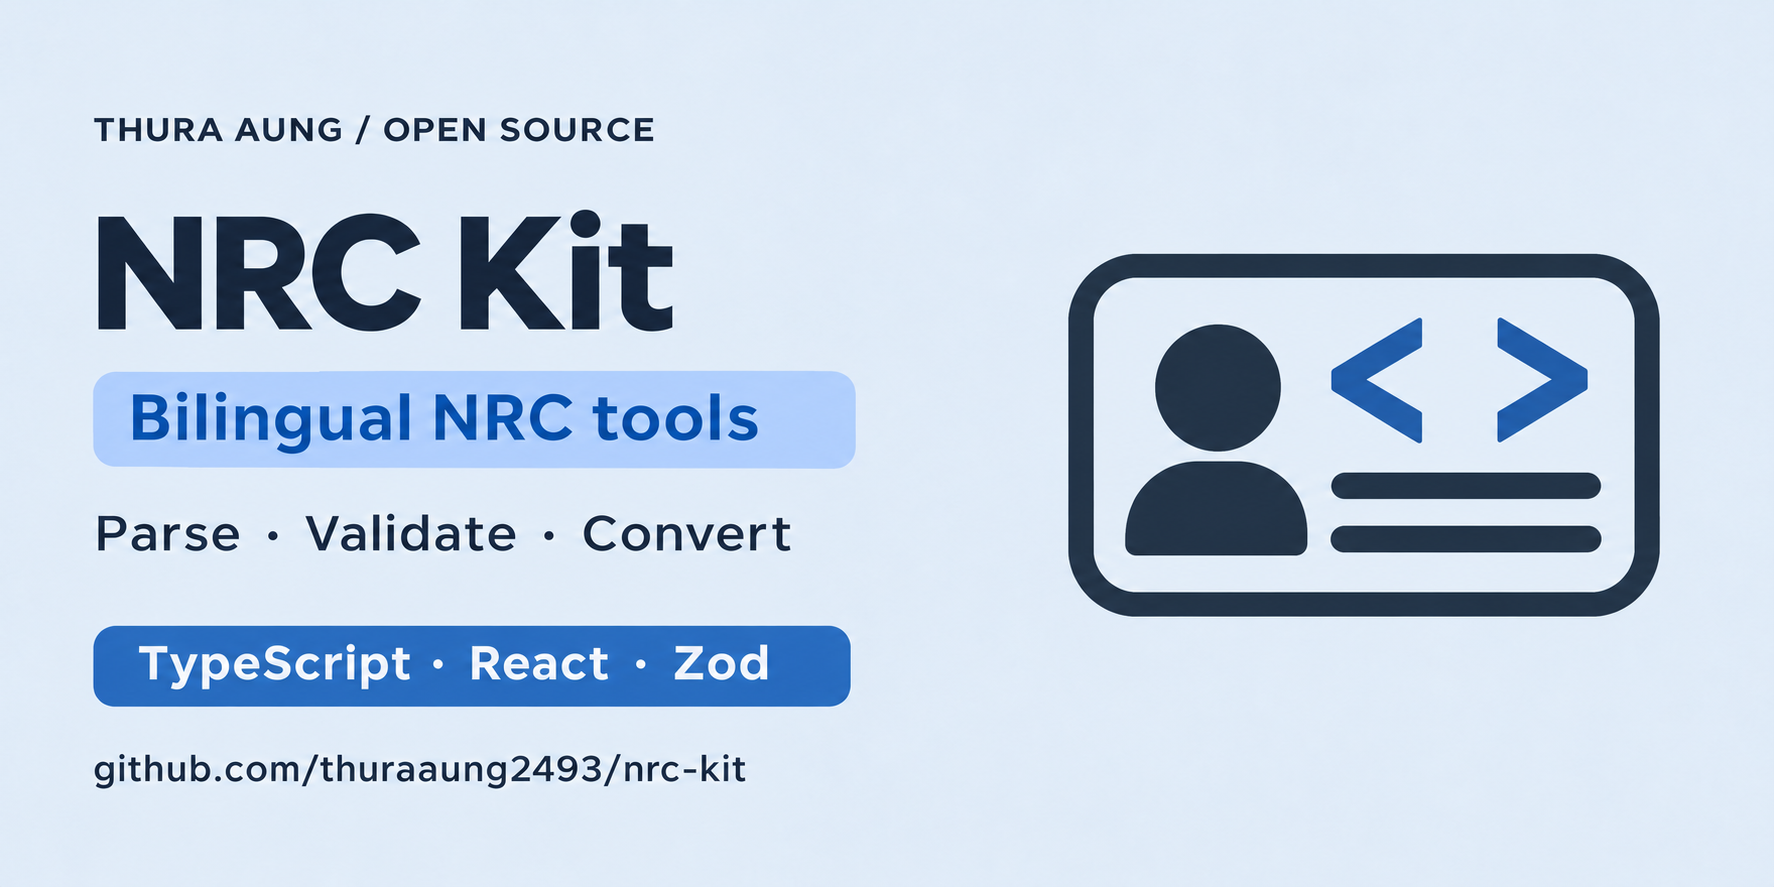
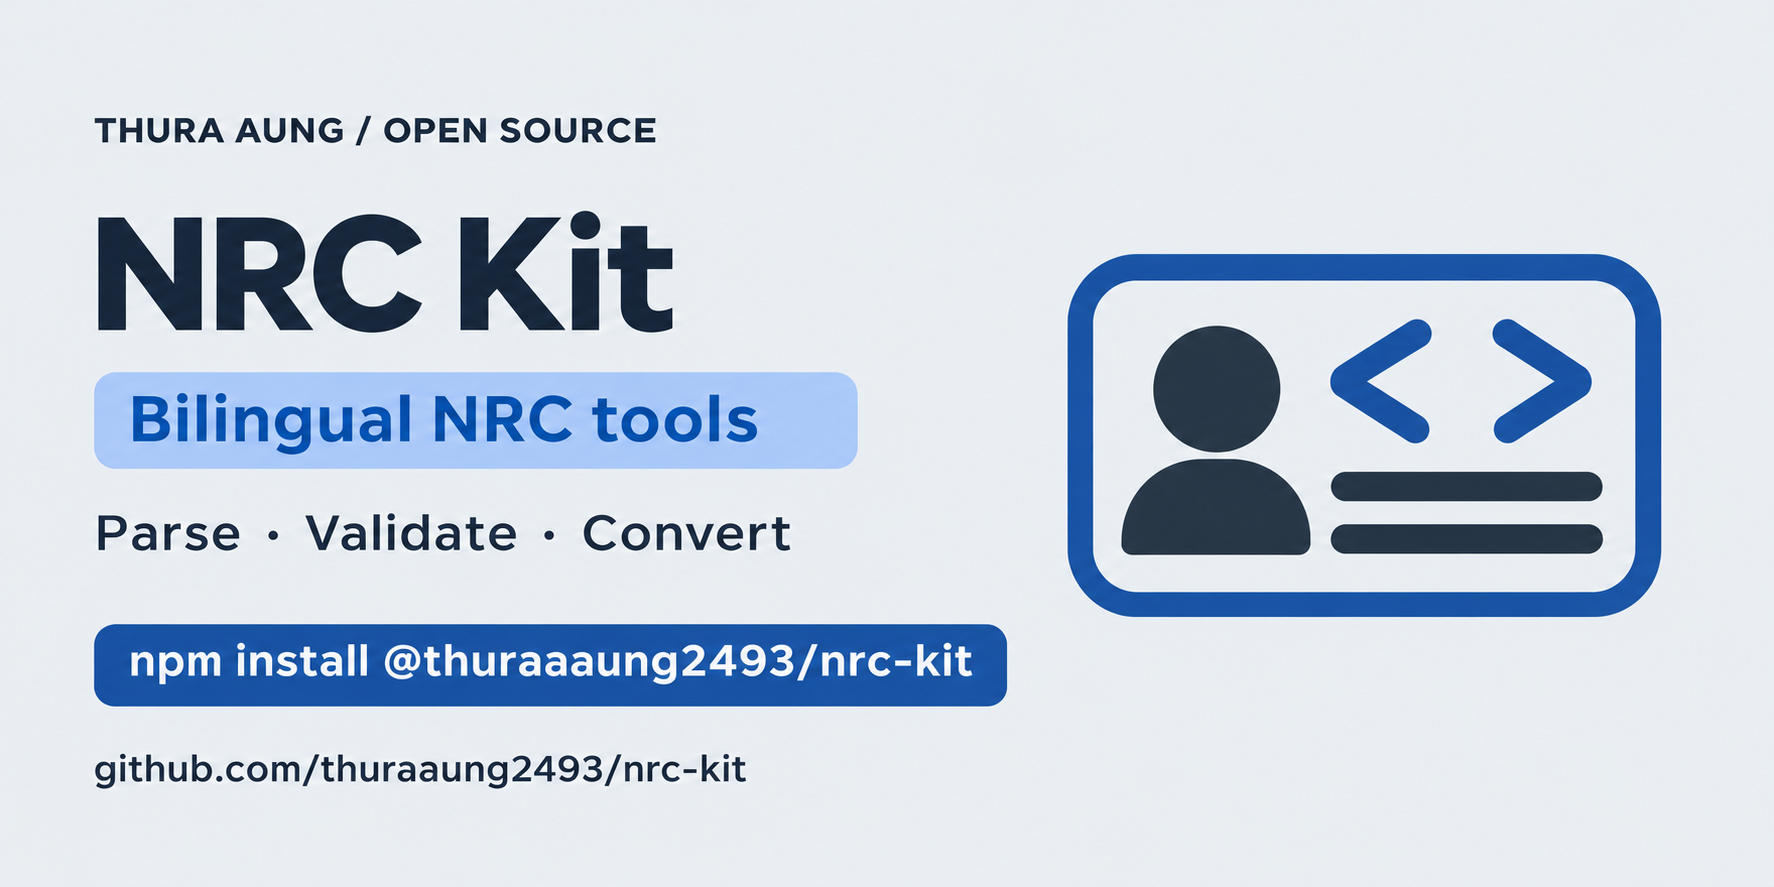
docs: match package artwork to the ts-expressor style

diff --git a/assets/branding/PROMPTS.md b/assets/branding/PROMPTS.md
@@ -1,0 +1,24 @@
+# Artwork prompts
+
+Mode: built-in image generation.
+
+## Logo
+
+A finished minimal flat package icon on a truly transparent SQUARE background. One outlined NRC/identity card containing a person silhouette on the left, two large code angle brackets <> on the right, and two short horizontal data lines under the brackets.
+The rounded rectangular card is 70% of the canvas width and centered with generous empty margins. Simple bold rounded geometry, balanced open spaces, clean crisp edges, no extra shapes.
+Use exactly two opaque solid colors: blue #28518D for the card border and both brackets; navy #25313D for the person and both data lines. The interior of the card is completely transparent.
+No letters or monograms. No pale highlights, cyan, gradients, glow, blur, lighting, background color, haze, texture, shadow, stray pixels, text, watermark or mockup. Production-quality transparent PNG logo, clean like an SVG icon.
+
+## Social preview
+
+Use case: compositing / style-transfer. Asset: final NRC Kit package social preview, wide 2:1.
+Image 1 is the existing NRC Kit banner edit target. Image 2 is the final NRC card-with-<> PACKAGE LOGO to use faithfully. Image 3 is ts-expressor's SOCIAL PREVIEW and is the exact layout, color, spacing and typography reference.
+Match Image 3's cool soft-gray #EDF0F3 background, navy #25313D typography, blue #28518D command capsule, pale blue #A8C7F5 subtitle panel, generous 64px-safe margins, small uppercase author at upper left, large left package title, supporting line, lower command capsule and bottom repository URL. Put the card-with-<> logo large in the right third, preserving its wide card proportions, blue outline/brackets, navy person and lines. Do not use the ts-expressor arrow emblem, any N/B letter monogram, or personal logo.
+Exact text:
+Top label: "THURA AUNG / OPEN SOURCE"
+Title: "NRC Kit"
+Subtitle: "Bilingual NRC tools"
+Supporting line: "Parse · Validate · Convert"
+Command capsule: "npm install @thuraaung2493/nrc-kit"
+Footer: "github.com/thuraaung2493/nrc-kit"
+Render the command and URL accurately. Match the reference's text positions, hierarchy and crisp flat graphic finish. No added text, shadows, glow, noisy texture, badges, watermark or mockup. One complete finished 2:1 banner.

diff --git a/assets/branding/README.md b/assets/branding/README.md
@@ -1,11 +1,13 @@
 # NRC Kit artwork
 
-- `nrc-kit-logo.png`: transparent NRC card logo with blue code brackets.
-- `nrc-kit-social-preview.png`: package README banner in the shared 2:1 layout.
+- `nrc-kit-logo.png`: transparent NRC card logo with code brackets.
+- `nrc-kit-social-preview.png`: package banner in the shared 2:1 layout.
+- `PROMPTS.md`: final image-generation prompts.
 
-The NRC card logo, navy typography, blue labels and pale blue-gray
-background follow the existing package banner family. The author line, title,
-purpose, features, technology label and repository URL use consistent alignment.
+The artwork follows ts-expressor’s blue (#28518D), navy (#25313D),
+pale blue (#A8C7F5), and soft gray (#EDF0F3) palette. The preview uses
+an author line, package title, subtitle, features, install command, and
+repository URL. The logo uses an identity card and `<>` without a monogram
+or personal branding mark. Each package has its own portfolio entry.
 
-Created with the built-in image-generation tool for the package. The README
-banner uses the package logo; the standalone logo preserves transparency.
+Created with the built-in image-generation tool.
